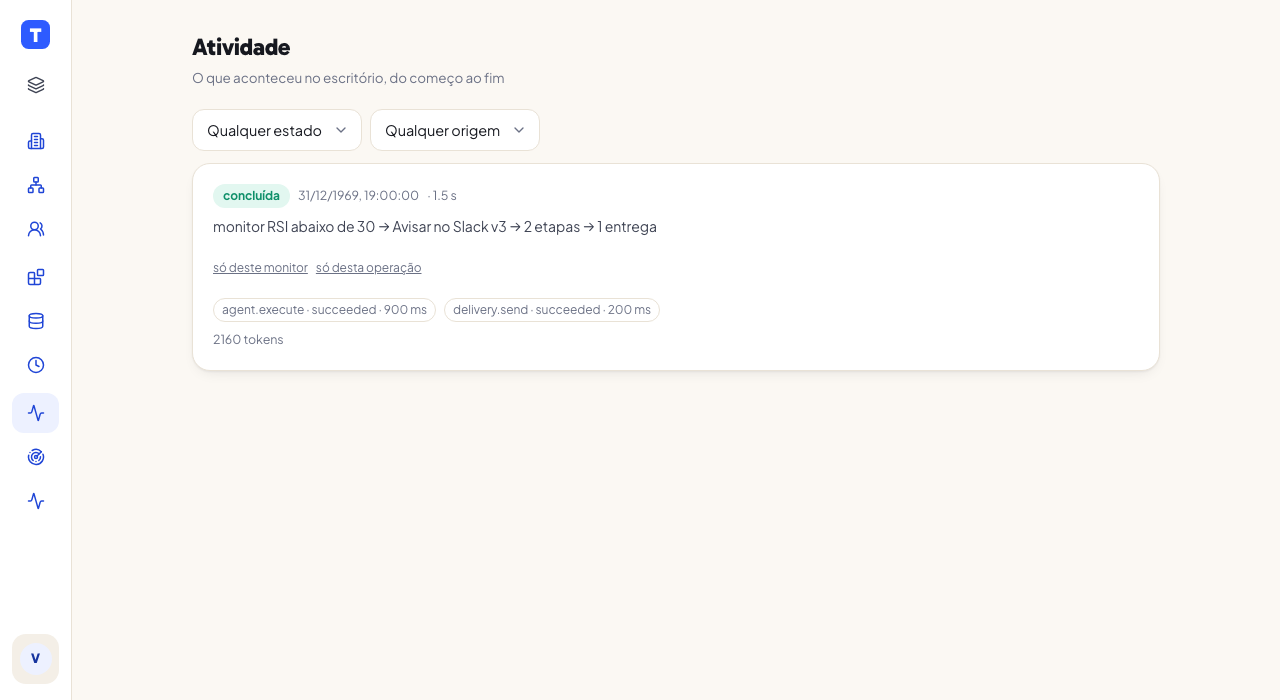
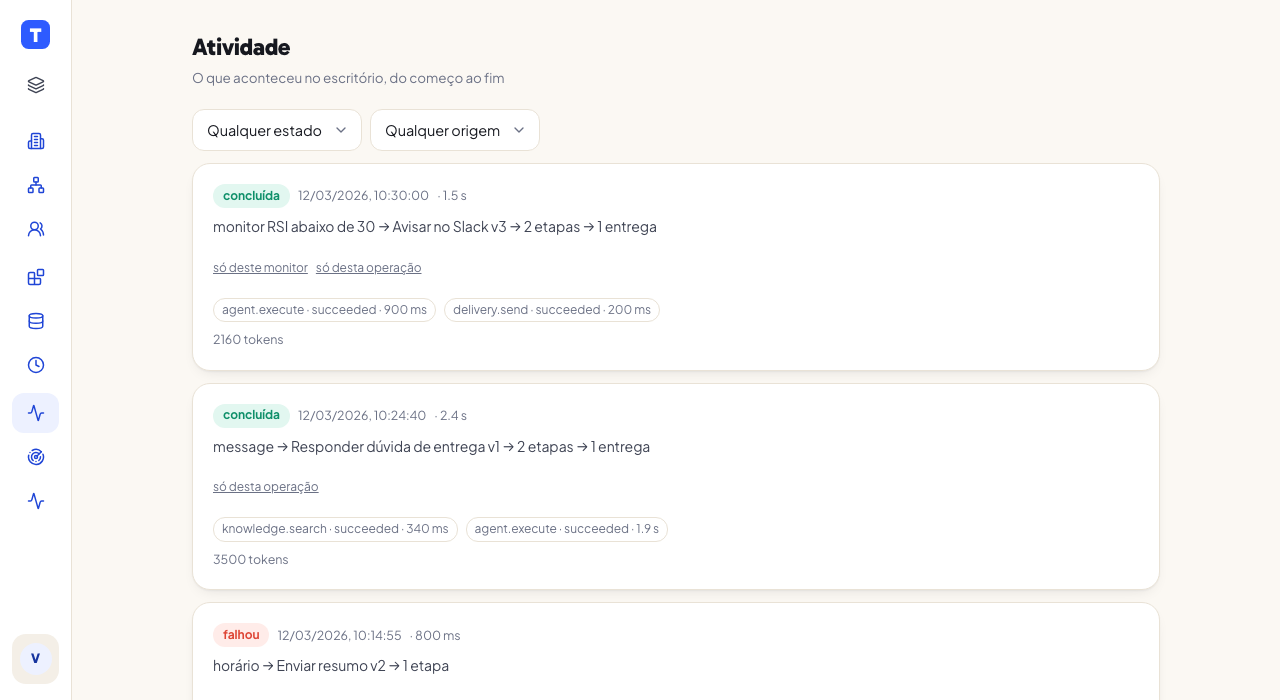
fix(landing): no celular a imagem vinha antes do título, e duas capturas eram quase vazias
A ORDEM. A seção "Veja por dentro" alterna texto e imagem com `order` inline.
Inline vale em qualquer largura, então na coluna única do celular as seções
ímpares mostravam a tela do produto ANTES do `<h3>` que diz que tela é —
a pessoa via a imagem e só depois descobria o que estava olhando. Vira
`md:order-2`, que é onde a alternância faz sentido. Dois casos: nenhum bloco
com a imagem antes do título no celular, e no desktop a segunda continua
à esquerda.

AS CAPTURAS. A de Atividade tinha UMA linha num quadro de 1280x700 — dois
terços de branco — e estampava "31/12/1969, 19:00:00", porque a data de
exemplo era `new Date(0)`. Agora são quatro execuções, com origens
diferentes e uma que falhou (uma tela de auditoria onde tudo deu certo é
um cartaz, não uma auditoria), e a data é fixa e plausível. A do mapa de
conhecimento tinha sete nós numa linha fina no meio da folha; ganhou o
segundo setor, mais três documentos, e é recortada no RETÂNGULO DO QUE FOI
DESENHADO em densidade dobrada. 926x526 quase vazio → 826x696 de nuvem.

AS MEDIDAS. As três `<img>` declaravam o mesmo `1280x820` copiado, e duas
não são disso: é dali que o navegador tira a proporção para reservar espaço
antes de a imagem chegar, então a página saltava sob o dedo enquanto elas
carregavam. Cada uma passa a declarar a sua, e `capturas.test.ts` lê o
cabeçalho do PNG para conferir — o número só está certo no dia em que foi
escrito, e erra sozinho na primeira regravação com outro recorte.
[…]

diff --git a/frontend/e2e/capturas.spec.ts b/frontend/e2e/capturas.spec.ts
@@ -17,13 +17,20 @@ import type { Page } from '@playwright/test'
 const LIGADO = process.env.CAPTURAS === '1'
 test.skip(!LIGADO, 'defina CAPTURAS=1 para regravar as imagens da landing')
 
-const AGORA = new Date(0).toISOString()
+// Uma data FIXA e plausível, e não `new Date(0)`: a captura anterior estampava
+// "31/12/1969, 19:00:00" na landing. Fixa porque a imagem entra no repositório —
+// uma data de hoje faria toda regravação virar um diff.
+const AGORA = '2026-03-12T14:30:00.000Z'
 const ANDAR = '000000000000000000000f11'
 const A1 = '000000000000000000000a11'
 const A2 = '000000000000000000000a22'
 const A3 = '000000000000000000000a33'
 const DOC1 = '000000000000000000000d11'
 const DOC2 = '000000000000000000000d22'
+const DOC3 = '000000000000000000000d33'
+const DOC4 = '000000000000000000000d44'
+const DOC5 = '000000000000000000000d55'
+const DOC6 = '000000000000000000000d66'
 
 const FLOOR = {
   id: ANDAR,
@@ -57,7 +64,7 @@ const SETORES = [
 
 const GRAFO = {
   viewKey: `floor:${ANDAR}#2`,
-  documentTotal: 2,
+  documentTotal: 6,
   documentLimit: 200,
   truncated: false,
   nodes: [
@@ -66,8 +73,14 @@ const GRAFO = {
     { id: 'sector:s1', kind: 'sector', label: 'Atendimento', color: '#4466aa', ownerType: 'sector', ownerId: 's1', position: null },
     { id: `agent:${A1}`, kind: 'agent', label: 'Marina', ownerType: 'agent', ownerId: A1, position: null },
     { id: `agent:${A2}`, kind: 'agent', label: 'Rafael', ownerType: 'agent', ownerId: A2, position: null },
+    { id: 'sector:s2', kind: 'sector', label: 'Mercado', color: '#17B98A', ownerType: 'sector', ownerId: 's2', position: null },
+    { id: `agent:${A3}`, kind: 'agent', label: 'Nina', ownerType: 'agent', ownerId: A3, position: null },
     { id: `document:${DOC1}`, kind: 'document', label: 'Política de troca', ownerType: 'agent', ownerId: A1, indexStatus: 'indexed', source: 'manual', position: null },
     { id: `document:${DOC2}`, kind: 'document', label: 'Prazo de entrega', ownerType: 'floor', ownerId: ANDAR, indexStatus: 'indexed', source: 'manual', position: null },
+    { id: `document:${DOC3}`, kind: 'document', label: 'Tabela de frete', ownerType: 'floor', ownerId: ANDAR, indexStatus: 'indexed', source: 'manual', position: null },
+    { id: `document:${DOC4}`, kind: 'document', label: 'Roteiro de atendimento', ownerType: 'agent', ownerId: A2, indexStatus: 'indexed', source: 'manual', position: null },
+    { id: `document:${DOC5}`, kind: 'document', label: 'Concorrentes', ownerType: 'agent', ownerId: A3, indexStatus: 'indexed', source: 'manual', position: null },
+    { id: `document:${DOC6}`, kind: 'document', label: 'Catálogo', ownerType: 'sector', ownerId: 's2', indexStatus: 'indexed', source: 'manual', position: null },
   ],
   edges: [
     { id: 'e1', source: 'building:b1', target: `floor:${ANDAR}`, kind: 'contains' },
@@ -77,28 +90,102 @@ const GRAFO = {
     { id: 'e5', source: `agent:${A1}`, target: `document:${DOC1}`, kind: 'contains' },
     { id: 'e6', source: `floor:${ANDAR}`, target: `document:${DOC2}`, kind: 'contains' },
     { id: 'e7', source: `agent:${A2}`, target: `document:${DOC2}`, kind: 'can_access' },
+    { id: 'e8', source: `floor:${ANDAR}`, target: 'sector:s2', kind: 'contains' },
+    { id: 'e9', source: 'sector:s2', target: `agent:${A3}`, kind: 'contains' },
+    { id: 'e10', source: `floor:${ANDAR}`, target: `document:${DOC3}`, kind: 'contains' },
+    { id: 'e11', source: `agent:${A2}`, target: `document:${DOC4}`, kind: 'contains' },
+    { id: 'e12', source: `agent:${A3}`, target: `document:${DOC5}`, kind: 'contains' },
+    { id: 'e13', source: 'sector:s2', target: `document:${DOC6}`, kind: 'contains' },
+    { id: 'e15', source: `agent:${A3}`, target: `document:${DOC3}`, kind: 'can_access' },
   ],
 }
 
-const EXECUCAO = {
-  executionKey: 'run:aaa',
-  status: 'succeeded',
-  source: 'schedule',
-  environment: 'production',
-  createdAt: AGORA,
-  startedAt: AGORA,
-  finishedAt: new Date(1500).toISOString(),
-  durationMs: 1500,
-  origin: { kind: 'monitor', id: 'm1', name: 'RSI abaixo de 30', eventId: 'e2' },
-  flow: { id: 'f1', name: 'Avisar no Slack', version: 3, triggerType: 'internal_event' },
-  steps: [
-    { stepId: 's1', stepType: 'agent.execute', status: 'succeeded', durationMs: 900 },
-    { stepId: 's2', stepType: 'delivery.send', status: 'succeeded', durationMs: 200 },
-  ],
-  deliveries: 1,
-  usage: { inputTokens: 1840, outputTokens: 320 },
-  errorKind: null,
-}
+/**
+ * QUATRO execuções, e não uma.
+ *
+ * Com uma linha só, dois terços da imagem eram retângulo branco — e o texto ao lado
+ * promete "uma linha por execução". A captura precisa mostrar o que a frase diz:
+ * origens diferentes, uma que falhou, durações e consumos que não são todos iguais.
+ */
+const fim = (ms: number) => new Date(Date.parse(AGORA) + ms).toISOString()
+
+const EXECUCOES = [
+  {
+    executionKey: 'run:aaa',
+    status: 'succeeded',
+    source: 'schedule',
+    environment: 'production',
+    createdAt: AGORA,
+    startedAt: AGORA,
+    finishedAt: fim(1500),
+    durationMs: 1500,
+    origin: { kind: 'monitor', id: 'm1', name: 'RSI abaixo de 30', eventId: 'e2' },
+    flow: { id: 'f1', name: 'Avisar no Slack', version: 3, triggerType: 'internal_event' },
+    steps: [
+      { stepId: 's1', stepType: 'agent.execute', status: 'succeeded', durationMs: 900 },
+      { stepId: 's2', stepType: 'delivery.send', status: 'succeeded', durationMs: 200 },
+    ],
+    deliveries: 1,
+    usage: { inputTokens: 1840, outputTokens: 320 },
+    errorKind: null,
+  },
+  {
+    executionKey: 'run:bbb',
+    status: 'succeeded',
+    source: 'message',
+    environment: 'production',
+    createdAt: fim(-320000),
+    startedAt: fim(-320000),
+    finishedAt: fim(-317600),
+    durationMs: 2400,
+    origin: { kind: 'message', id: 'c1', name: 'Conversa com Marina', eventId: 'e3' },
+    flow: { id: 'f2', name: 'Responder dúvida de entrega', version: 1, triggerType: 'message' },
+    steps: [
+      { stepId: 's1', stepType: 'knowledge.search', status: 'succeeded', durationMs: 340 },
+      { stepId: 's2', stepType: 'agent.execute', status: 'succeeded', durationMs: 1900 },
+    ],
+    deliveries: 1,
+    usage: { inputTokens: 2960, outputTokens: 540 },
+    errorKind: null,
+  },
+  {
+    executionKey: 'run:ccc',
+    status: 'failed',
+    source: 'schedule',
+    environment: 'production',
+    createdAt: fim(-905000),
+    startedAt: fim(-905000),
+    finishedAt: fim(-904200),
+    durationMs: 800,
+    origin: { kind: 'routine', id: 'r1', name: 'Resumo diário do setor', eventId: 'e4' },
+    flow: { id: 'f3', name: 'Enviar resumo', version: 2, triggerType: 'schedule' },
+    // Uma que falhou, de propósito: uma tela de auditoria em que tudo deu certo não é
+    // uma tela de auditoria — é um cartaz.
+    steps: [{ stepId: 's1', stepType: 'delivery.send', status: 'failed', durationMs: 800 }],
+    deliveries: 0,
+    usage: { inputTokens: 610, outputTokens: 0 },
+    errorKind: 'delivery_rejected',
+  },
+  {
+    executionKey: 'run:ddd',
+    status: 'succeeded',
+    source: 'manual',
+    environment: 'production',
+    createdAt: fim(-3600000),
+    startedAt: fim(-3600000),
+    finishedAt: fim(-3595800),
+    durationMs: 4200,
+    origin: { kind: 'manual', id: 'u1', name: 'Disparo manual', eventId: 'e5' },
+    flow: { id: 'f4', name: 'Reindexar conhecimento do andar', version: 1, triggerType: 'manual' },
+    steps: [
+      { stepId: 's1', stepType: 'knowledge.index', status: 'succeeded', durationMs: 3800 },
+      { stepId: 's2', stepType: 'agent.execute', status: 'succeeded', durationMs: 400 },
+    ],
+    deliveries: 0,
+    usage: { inputTokens: 5120, outputTokens: 180 },
+    errorKind: null,
+  },
+]
 
 async function stub(page: Page) {
   await page.addInitScript(() => window.localStorage.setItem('comunicacaoai.locale', 'pt'))
@@ -117,7 +204,7 @@ async function stub(page: Page) {
   await page.route('**/api/agents**', (r) => r.fulfill({ json: AGENTES }))
   await page.route('**/api/sectors**', (r) => r.fulfill({ json: SETORES }))
   await page.route('**/api/knowledge/graph**', (r) => r.fulfill({ json: GRAFO }))
-  await page.route('**/api/activity**', (r) => r.fulfill({ json: { items: [EXECUCAO], nextCursor: null } }))
+  await page.route('**/api/activity**', (r) => r.fulfill({ json: { items: EXECUCOES, nextCursor: null } }))
   await page.route('**/api/resources**', (r) => r.fulfill({ json: { kinds: [], byKind: {}, items: [] } }))
 }
 
@@ -135,13 +222,29 @@ test('escritório', async ({ page }) => {
   await page.screenshot({ path: 'public/capturas/escritorio.png', clip: { x: 0, y: 0, width: 1280, height: 820 } })
 })
 
-test('conhecimento', async ({ page }) => {
-  await page.setViewportSize({ width: 1280, height: 820 })
-  await stub(page)
-  await page.goto(`/floors/${ANDAR}?view=knowledge`)
-  await page.getByTestId('knowledge-svg').waitFor()
-  await semBalao(page)
-  await page.getByTestId('knowledge-svg').screenshot({ path: 'public/capturas/conhecimento.png' })
+// Recorte pequeno pede densidade DOBRADA: cortada no conteúdo, esta imagem sai com
+// cerca de 400 px de largura e apareceria borrada na coluna de 560 px do desktop.
+test.describe('mapa', () => {
+  test.use({ deviceScaleFactor: 2 })
+  test('conhecimento', async ({ page }) => {
+    await page.setViewportSize({ width: 1280, height: 820 })
+    await stub(page)
+    await page.goto(`/floors/${ANDAR}?view=knowledge`)
+    await page.getByTestId('knowledge-svg').waitFor()
+    await semBalao(page)
+    // A câmera é fixa e a nuvem nasce pequena no meio da moldura: sem isto a captura é
+    // um retângulo branco com um punhado de bolinhas no canto esquerdo.
+    const caixa = await page.evaluate(() => {
+      const svg = document.querySelector('[data-testid="knowledge-svg"]')!
+      const desenhados = [...svg.querySelectorAll('circle, image, text')]
+      const r = desenhados.map((e) => e.getBoundingClientRect()).filter((b) => b.width > 0)
+      const folga = 28
+      const x = Math.min(...r.map((b) => b.left)) - folga
+      const y = Math.min(...r.map((b) => b.top)) - folga
+      return { x, y, width: Math.max(...r.map((b) => b.right)) + folga - x, height: Math.max(...r.map((b) => b.bottom)) + folga - y }
+    })
+    await page.screenshot({ path: 'public/capturas/conhecimento.png', clip: caixa })
+  })
 })
 
 test('atividade', async ({ page }) => {

diff --git a/frontend/src/pages/Home.tsx b/frontend/src/pages/Home.tsx
@@ -43,9 +43,11 @@ const PASSOS: [string, string, string][] = [
  * mudar, a captura antiga vira uma promessa que o produto não cumpre mais, e a defesa
  * contra isso é ela ser barata de refazer.
  */
-const CAPTURAS: { arquivo: string; titulo: string; texto: string; alt: string }[] = [
+export const CAPTURAS: { arquivo: string; largura: number; altura: number; titulo: string; texto: string; alt: string }[] = [
   {
     arquivo: '/capturas/escritorio.png',
+    largura: 1280,
+    altura: 820,
     titulo: 'O escritório, com quem trabalha nele',
     texto:
       'Cada agente tem mesa, setor e um estado visível: pensando, trabalhando, parado. Clicar num deles abre o que ele sabe, o que pode usar e o que já fez — sem ler log.',
@@ -53,6 +55,8 @@ const CAPTURAS: { arquivo: string; titulo: string; texto: string; alt: string }[
   },
   {
     arquivo: '/capturas/conhecimento.png',
+    largura: 826,
+    altura: 696,
     titulo: 'O mesmo andar, pelo que se sabe nele',
     texto:
       'Uma nuvem que gira: documentos, agentes e setores ligados por quem contém e quem alcança. Selecionar um nó acende a vizinhança dele e responde “o que isto atinge?” sem abrir painel.',
@@ -60,6 +64,8 @@ const CAPTURAS: { arquivo: string; titulo: string; texto: string; alt: string }[
   },
   {
     arquivo: '/capturas/atividade.png',
+    largura: 1280,
+    altura: 700,
     titulo: 'A cadeia inteira de uma resposta',
     texto:
       'De onde partiu (um monitor, uma rotina, uma mensagem), por quais etapas passou, o que foi entregue, quanto demorou e quanto consumiu. Uma linha por execução, e nenhum conteúdo sensível.',
@@ -289,7 +295,10 @@ export function Home() {
         <div style={{ display: 'flex', flexDirection: 'column', gap: 40 }}>
           {CAPTURAS.map((c, i) => (
             <div key={c.arquivo} className="grid items-center gap-6 md:grid-cols-2">
-              <div style={{ order: i % 2 === 1 ? 2 : 0, minWidth: 0 }}>
+              {/* A alternância é do DESKTOP, onde há duas colunas. Como `order` inline vale
+                  em qualquer largura, no celular ela jogava a imagem para ANTES do próprio
+                  título — e a pessoa via a tela antes de saber que tela era. */}
+              <div className={i % 2 === 1 ? 'md:order-2' : undefined} style={{ minWidth: 0 }}>
                 <h3 style={{ fontFamily: 'var(--font-display)', fontSize: 19, fontWeight: 800, color: 'var(--text-heading)', margin: '0 0 8px' }}>{c.titulo}</h3>
                 <p style={{ fontSize: 15, color: 'var(--text-muted)', lineHeight: 1.6, margin: 0 }}>{c.texto}</p>
               </div>
@@ -299,8 +308,13 @@ export function Home() {
                 // `lazy` porque estas ficam abaixo da dobra: baixá-las no primeiro quadro
                 // atrasaria justamente o que a pessoa veio ver.
                 loading="lazy"
-                width={1280}
-                height={820}
+                // As MEDIDAS DE VERDADE de cada arquivo, e não um par repetido: é delas que
+                // o navegador tira a proporção para reservar o espaço antes de baixar a
+                // imagem. Erradas, a página salta quando cada uma chega — e no celular o
+                // salto acontece justamente sob o dedo. `capturas.test.ts` compara os dois
+                // números com o cabeçalho do PNG.
+                width={c.largura}
+                height={c.altura}
                 data-testid={`home-captura-${i}`}
                 style={{ width: '100%', height: 'auto', borderRadius: 14, border: '1px solid var(--border-subtle)', boxShadow: 'var(--shadow-raised)', background: 'var(--surface-card)' }}
               />

diff --git a/frontend/e2e/celular-publico.spec.ts b/frontend/e2e/celular-publico.spec.ts
@@ -89,3 +89,33 @@ test('no DESKTOP nada disso muda: o índice continua aberto e ao lado', async ({
   })
   expect(lado).toBe(true)
 })
+
+test('ACEITAÇÃO: cada captura vem DEPOIS do título que a explica', async ({ page }) => {
+  /**
+   * A landing alterna texto e imagem no desktop com `order`. Como `order` inline vale em
+   * qualquer largura, na coluna única do celular ele jogava a imagem das seções ímpares
+   * para antes do próprio `<h3>`: a pessoa via uma tela do produto sem saber que tela era,
+   * e o título aparecia depois, explicando uma imagem que já tinha passado.
+   */
+  await page.goto('/')
+  const blocos = page.locator('[data-testid="home-capturas"] .grid')
+  await expect(blocos.first()).toBeVisible()
+  const invertidos = await blocos.evaluateAll((gs) =>
+    gs
+      .map((g, i) => [i, g.querySelector('h3')!.getBoundingClientRect().top, g.querySelector('img')!.getBoundingClientRect().top] as const)
+      .filter(([, titulo, imagem]) => titulo > imagem)
+      .map(([i]) => i),
+  )
+  expect(invertidos, `capturas com a imagem antes do título: ${invertidos.join(', ')}`).toEqual([])
+})
+
+test('no DESKTOP a alternância continua: a segunda captura fica à ESQUERDA', async ({ page }) => {
+  // A correção acima não pode custar o desenho de duas colunas — sem alternância, três
+  // blocos idênticos empilhados viram uma lista, e não uma página.
+  await page.setViewportSize({ width: 1280, height: 900 })
+  await page.goto('/')
+  const lados = await page.locator('[data-testid="home-capturas"] .grid').evaluateAll((gs) =>
+    gs.map((g) => (g.querySelector('img')!.getBoundingClientRect().left < g.querySelector('h3')!.getBoundingClientRect().left ? 'imagem-esquerda' : 'texto-esquerda')),
+  )
+  expect(lados).toEqual(['texto-esquerda', 'imagem-esquerda', 'texto-esquerda'])
+})

diff --git a/frontend/src/pages/__tests__/capturas.test.ts b/frontend/src/pages/__tests__/capturas.test.ts
@@ -1,0 +1,35 @@
+// AS MEDIDAS declaradas para cada captura, contra o arquivo de verdade.
+//
+// `width`/`height` num `<img>` não desenham nada: dão ao navegador a proporção para
+// reservar o espaço antes de a imagem chegar. Erradas, a página salta quando cada uma
+// carrega — e as três traziam o mesmo `1280x820` copiado, sendo que duas não são disso.
+//
+// Ninguém percebe isso lendo o código: o número está certo no dia em que foi escrito e
+// fica errado no dia em que a captura é regravada com outro recorte. Por isso o caso
+// abre o PNG e lê o cabeçalho.
+import { readFileSync } from 'node:fs'
+import { describe, expect, it } from 'vitest'
+import { CAPTURAS } from '../Home'
+
+/** Largura e altura do IHDR — os 8 bytes logo depois da assinatura e do tamanho do bloco. */
+function medidasDoPng(caminho: string) {
+  const bytes = readFileSync(caminho)
+  expect(bytes.subarray(1, 4).toString('latin1'), `${caminho} não é PNG`).toBe('PNG')
+  return { largura: bytes.readUInt32BE(16), altura: bytes.readUInt32BE(20) }
+}
+
+describe('capturas da landing', () => {
+  it('toda captura declara a medida do arquivo que ela é', () => {
+    expect(CAPTURAS.length).toBeGreaterThan(0)
+    for (const c of CAPTURAS) {
+      const real = medidasDoPng(new URL(`../../../public${c.arquivo}`, import.meta.url).pathname)
+      expect({ arquivo: c.arquivo, ...real }).toEqual({ arquivo: c.arquivo, largura: c.largura, altura: c.altura })
+    }
+  })
+
+  it('toda captura tem texto alternativo que descreve a tela', () => {
+    // `alt` vazio numa imagem que carrega o argumento da página é a página inteira
+    // sumindo para quem usa leitor de tela.
+    for (const c of CAPTURAS) expect(c.alt.length, `${c.arquivo} sem alt`).toBeGreaterThan(30)
+  })
+})

diff --git a/frontend/src/components/CascaPublica.tsx b/frontend/src/components/CascaPublica.tsx
@@ -47,13 +47,18 @@ export function CascaPublica({ children, rodape = true }: { children: ReactNode;
             </Link>
           ))}
         </nav>
-        <div style={{ flex: 1 }} />
-        <Button variant="ghost" size="sm" onClick={() => navigate('/login')} data-testid="publico-entrar">
-          Entrar
-        </Button>
-        <Button size="sm" onClick={() => navigate('/register')} data-testid="publico-criar-conta">
-          Criar conta
-        </Button>
+        {/* Os dois botões andam JUNTOS. Soltos, o `flex-wrap` quebrava entre eles e o
+            "Criar conta" descia sozinho, encostado à esquerda, como se tivesse escapado.
+            Agrupados com `ms-auto`, ou cabem na linha da marca, ou descem os dois
+            alinhados à direita — nas duas larguras parece uma decisão. */}
+        <div className="ms-auto flex items-center gap-3">
+          <Button variant="ghost" size="sm" onClick={() => navigate('/login')} data-testid="publico-entrar">
+            Entrar
+          </Button>
+          <Button size="sm" onClick={() => navigate('/register')} data-testid="publico-criar-conta">
+            Criar conta
+          </Button>
+        </div>
       </header>
 
       <main style={{ flex: 1 }}>{children}</main>
